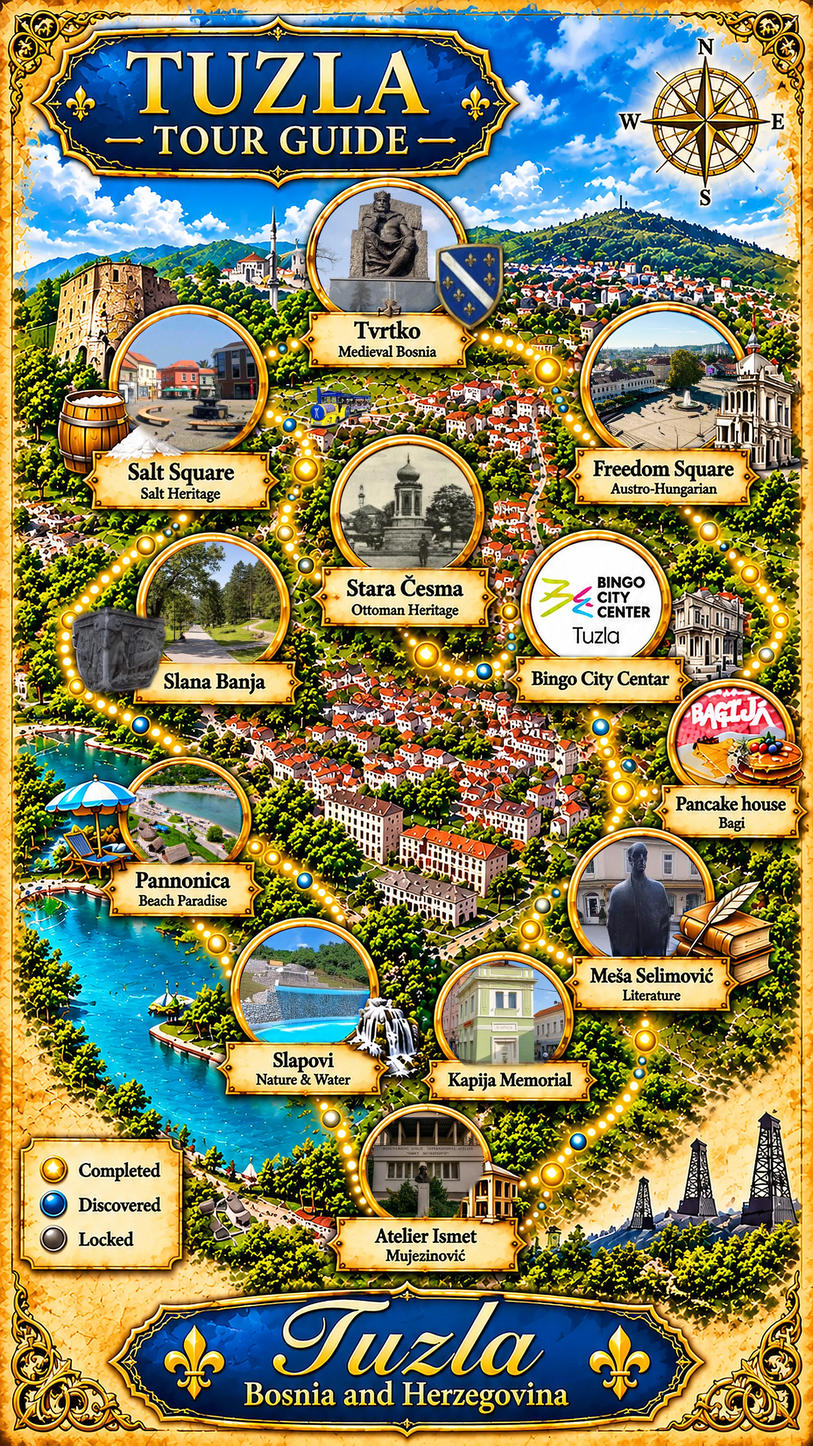
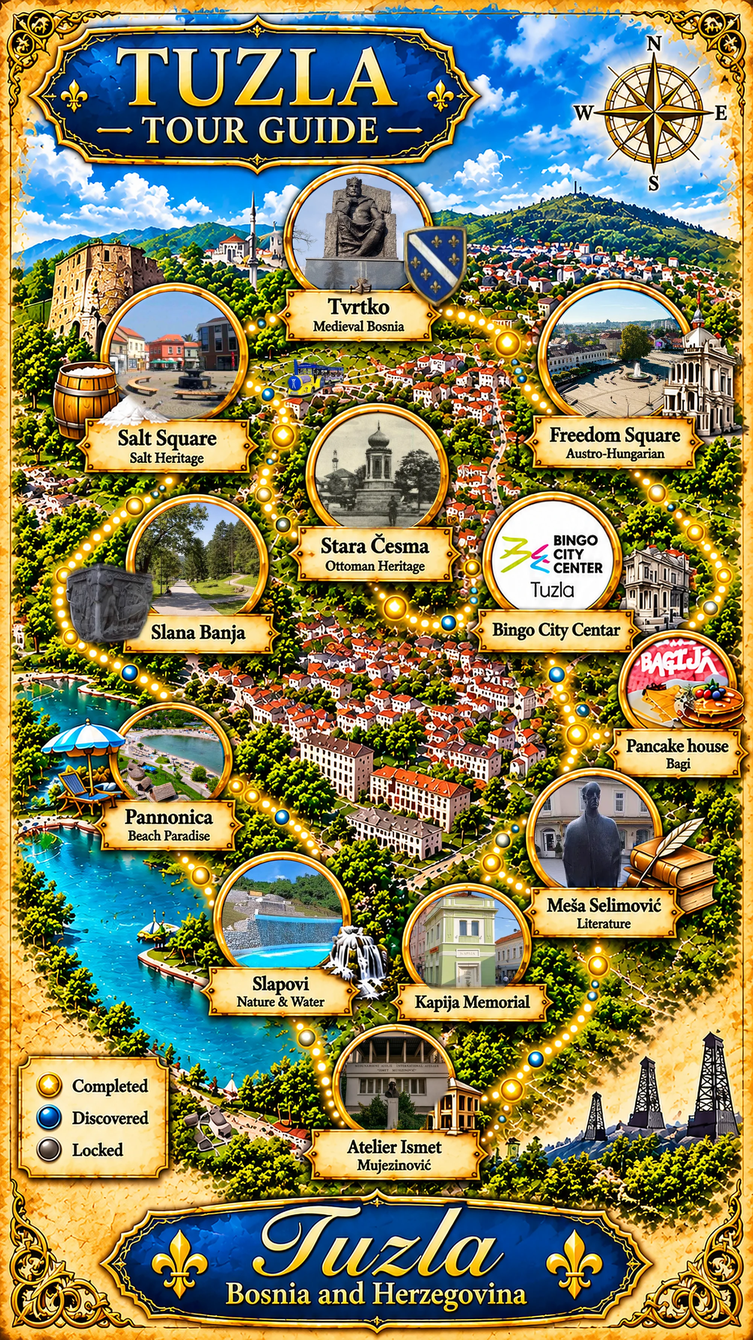
1

diff --git a/utils/questPopupHtml.ts b/utils/questPopupHtml.ts
@@ -78,27 +78,24 @@ export const generateQuestPopupHtml = (
         </button>
       </div>
 
-        <!-- Optional: Video Button -->
-        ${hasVideo ? `
-          <button onclick="window.playQuestVideo && window.playQuestVideo('${loc.video}', '${escapedTitle}')" style="width: 100%; min-height: 34px; padding: 8px; background: rgba(168, 85, 247, 0.2); color: #c084fc; border: 1px solid rgba(168, 85, 247, 0.4); border-radius: 10px; font-weight: 800; font-family: 'Quicksand', sans-serif; cursor: pointer; text-transform: uppercase; font-size: 10px; display: flex; align-items: center; justify-content: center; gap: 4px; box-sizing: border-box;">
-            🎬 ${lang === 'bs' ? 'Pogledaj Video' : 'Watch Video'}
-          </button>
-        ` : ''}
+      <!-- Optional Media & Interactive Buttons -->
+      ${hasVideo ? `
+        <button onclick="window.playQuestVideo && window.playQuestVideo('${loc.video}', '${escapedTitle}')" style="width: 100%; min-height: 34px; margin-top: 6px; padding: 8px; background: rgba(168, 85, 247, 0.2); color: #c084fc; border: 1px solid rgba(168, 85, 247, 0.4); border-radius: 10px; font-weight: 800; font-family: 'Quicksand', sans-serif; cursor: pointer; text-transform: uppercase; font-size: 10px; display: flex; align-items: center; justify-content: center; gap: 4px; box-sizing: border-box;">
+          🎬 ${lang === 'bs' ? 'Pogledaj Video' : 'Watch Video'}
+        </button>
+      ` : ''}
 
-        <!-- Optional: Tvrtko Scratch Card Button -->
-        ${(loc.id === 'tvrtko_park' || loc.id === 'tvrtko') && isUnlocked ? `
-          <button onclick="window.openTvrtkoScratch && window.openTvrtkoScratch()" style="width: 100%; min-height: 34px; padding: 8px; background: rgba(245, 158, 11, 0.25); color: #fbbf24; border: 1.5px solid rgba(251, 191, 36, 0.6); border-radius: 10px; font-weight: 900; font-family: 'Quicksand', sans-serif; cursor: pointer; text-transform: uppercase; font-size: 10px; display: flex; align-items: center; justify-content: center; gap: 4px; box-sizing: border-box;">
-            🪙 ${lang === 'bs' ? 'Otvori Scratch Karticu' : 'Scratch For Reward'}
-          </button>
-        ` : ''}
+      ${(loc.id === 'tvrtko_park' || loc.id === 'tvrtko') && isUnlocked ? `
+        <button onclick="window.openTvrtkoScratch && window.openTvrtkoScratch()" style="width: 100%; min-height: 34px; margin-top: 6px; padding: 8px; background: rgba(245, 158, 11, 0.25); color: #fbbf24; border: 1.5px solid rgba(251, 191, 36, 0.6); border-radius: 10px; font-weight: 900; font-family: 'Quicksand', sans-serif; cursor: pointer; text-transform: uppercase; font-size: 10px; display: flex; align-items: center; justify-content: center; gap: 4px; box-sizing: border-box;">
+          🪙 ${lang === 'bs' ? 'Otvori Scratch Karticu' : 'Scratch For Reward'}
+        </button>
+      ` : ''}
 
-   //        <!-- Optional: 360 Panorama Button -->
-        ${hasPanorama ? `
-          <button onclick="window.openQuestPanorama && window.openQuestPanorama('${loc.panorama}', '${escapedTitle}', ${loc.panoramaHaov || 270})" style="width: 100%; min-height: 34px; padding: 8px; background: rgba(14, 165, 233, 0.2); color: #38bdf8; border: 1px solid rgba(14, 165, 233, 0.4); border-radius: 10px; font-weight: 800; font-family: 'Quicksand', sans-serif; cursor: pointer; text-transform: uppercase; font-size: 10px; display: flex; align-items: center; justify-content: center; gap: 4px; box-sizing: border-box;">
-            🔄 ${lang === 'bs' ? '360° Panorama' : '360° Panorama'}
-          </button>
-        ` : ''}
-      </div>
+      ${hasPanorama ? `
+        <button onclick="window.openQuestPanorama && window.openQuestPanorama('${loc.panorama}', '${escapedTitle}', ${loc.panoramaHaov || 270})" style="width: 100%; min-height: 34px; margin-top: 6px; padding: 8px; background: rgba(14, 165, 233, 0.2); color: #38bdf8; border: 1px solid rgba(14, 165, 233, 0.4); border-radius: 10px; font-weight: 800; font-family: 'Quicksand', sans-serif; cursor: pointer; text-transform: uppercase; font-size: 10px; display: flex; align-items: center; justify-content: center; gap: 4px; box-sizing: border-box;">
+          🔄 ${lang === 'bs' ? '360° Panorama' : '360° Panorama'}
+        </button>
+      ` : ''}
     </div>
   `;
 };

diff --git a/components/QuestIllustratedMap.tsx b/components/QuestIllustratedMap.tsx
@@ -15,21 +15,21 @@ interface QuestIllustratedMapProps {
 
 const MAP_IMAGE = '/assets/QuestMap3.webp';
 
-// Percent positions aligned with real geographic locations in Tuzla
+// Percent positions aligned with the 12 medallion callouts in QuestMap3.webp
 const HOTSPOTS: Record<string, { left: string; top: string }> = {
-  slapovi: { left: '72%', top: '16%' },
-  panonika: { left: '60%', top: '22%' },
-  trg_slobode: { left: '38%', top: '22%' },
-  stara_cesma: { left: '42%', top: '27%' },
-  kapija: { left: '48%', top: '34%' },
-  salt_square: { left: '38%', top: '38%' },
-  palacinkara: { left: '54%', top: '40%' },
-  palancikara: { left: '54%', top: '40%' },
-  tvrtko_park: { left: '58%', top: '47%' },
-  mesa_selimovic: { left: '52%', top: '56%' },
-  atelje_ismet: { left: '68%', top: '58%' },
-  slana_banja: { left: '84%', top: '65%' },
-  bingo_city_centar: { left: '70%', top: '48%' },
+  tvrtko_park: { left: '47.5%', top: '17.2%' },
+  salt_square: { left: '23.5%', top: '27.1%' },
+  trg_slobode: { left: '81.5%', top: '27.6%' },
+  stara_cesma: { left: '50.0%', top: '35.5%' },
+  slana_banja: { left: '25.9%', top: '42.4%' },
+  bingo_city_centar: { left: '73.6%', top: '41.5%' },
+  palacinkara: { left: '89.6%', top: '51.5%' },
+  palancikara: { left: '89.6%', top: '51.5%' },
+  panonika: { left: '22.5%', top: '57.8%' },
+  mesa_selimovic: { left: '78.5%', top: '62.5%' },
+  slapovi: { left: '36.6%', top: '68.5%' },
+  kapija: { left: '61.1%', top: '71.3%' },
+  atelje_ismet: { left: '52.5%', top: '81.5%' },
 };
 
 const labels = {

diff --git a/components/MapQuestView.tsx b/components/MapQuestView.tsx
@@ -402,6 +402,13 @@ const MapQuestView: React.FC<MapQuestViewProps> = ({ lang, features, unlockedRew
 
       el.addEventListener('click', () => {
         setActiveTargetId(target.id);
+        if (map.current) {
+          map.current.easeTo({
+            center: [coords.lon, coords.lat],
+            offset: [0, 60],
+            duration: 400,
+          });
+        }
       });
 
       const popupHtml = generateQuestPopupHtml(
@@ -424,13 +431,22 @@ const MapQuestView: React.FC<MapQuestViewProps> = ({ lang, features, unlockedRew
       );
 
       const popup = new maplibregl.Popup({
-        offset: 24,
-        anchor: 'bottom',
+        offset: [0, -10],
         maxWidth: '300px',
         closeButton: true,
         closeOnClick: true,
         className: 'quest-poi-map-popup',
       }).setHTML(popupHtml);
+
+      popup.on('open', () => {
+        if (map.current) {
+          map.current.easeTo({
+            center: [coords.lon, coords.lat],
+            offset: [0, 60],
+            duration: 400,
+          });
+        }
+      });
 
       const marker = new maplibregl.Marker(el)
         .setLngLat([coords.lon, coords.lat])
